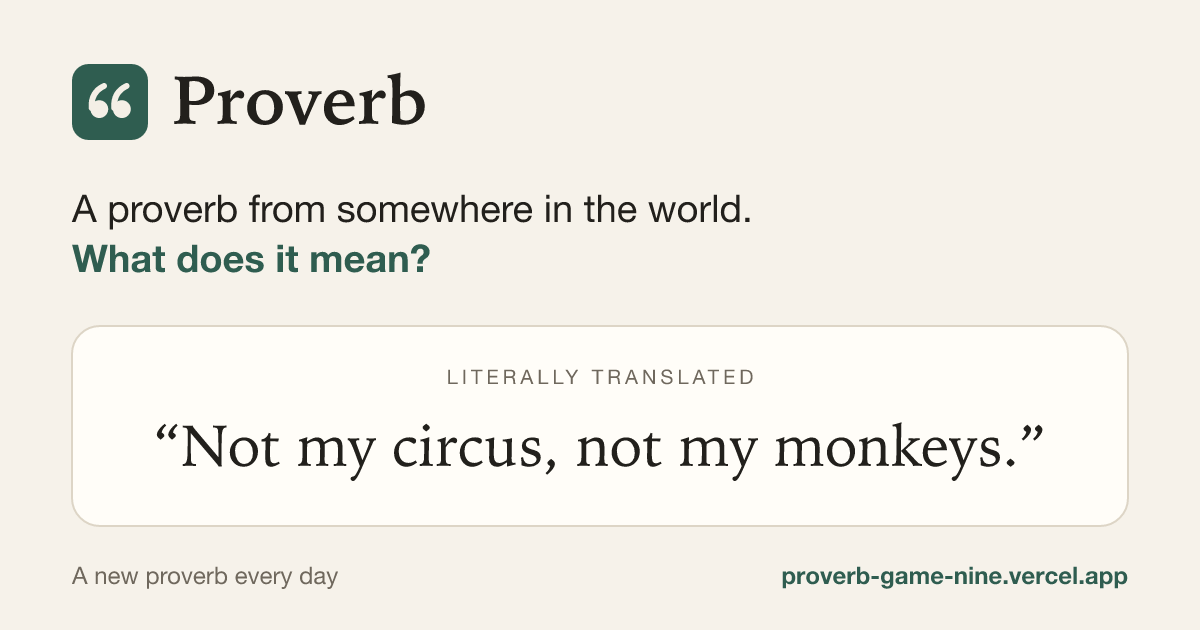
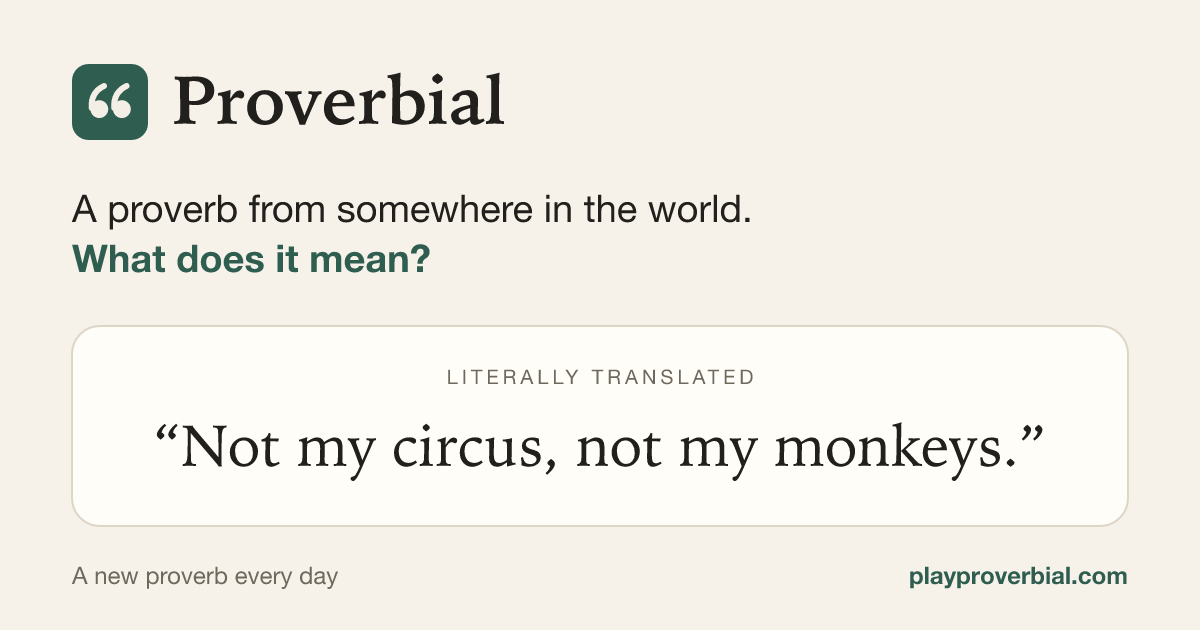
Rename game to Proverbial

Changed region(s): [[0.6475, 0.9048, 0.9558, 0.9349], [0.3392, 0.1206, 0.4317, 0.2111]]

diff --git a/src/config.js b/src/config.js
@@ -1,9 +1,9 @@
 // Game-wide settings. Tune these in one place.
 
-export const GAME_NAME = 'Proverb'
+export const GAME_NAME = 'Proverbial'
 
 // Public address of the game, used in the share text and link previews (no trailing slash).
-export const SITE_URL = 'https://proverb-game-nine.vercel.app'
+export const SITE_URL = 'https://playproverbial.com'
 
 // Used in link previews, the page title and the share image (npm run share-images).
 export const SITE_TAGLINE = 'A proverb from somewhere in the world. What does it mean?'

diff --git a/README.md b/README.md
@@ -1,4 +1,4 @@
-# Proverb
+# Proverbial
 
 A daily proverb guessing game. Each day everyone gets the same proverb from another language, shown as a literal English translation. Work out what it means, then guess which country it comes from.
 
